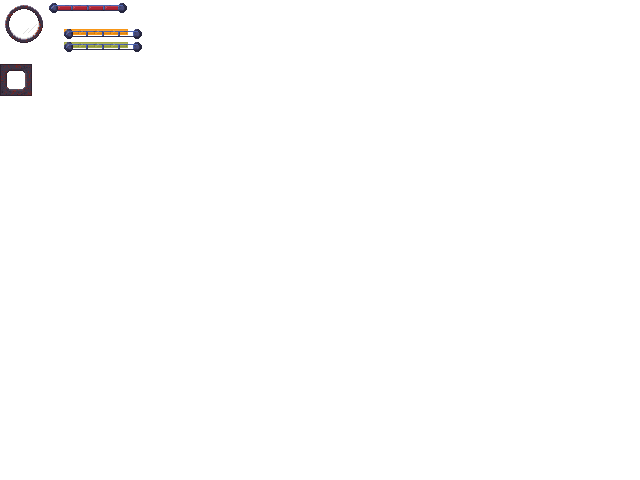
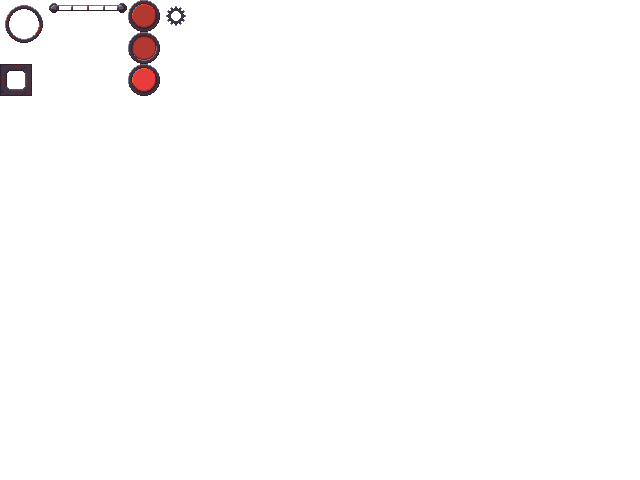
wip: hud

Changed region(s): [[0.0625, 0.0, 0.3125, 0.2188]]

diff --git a/js/hud.js b/js/hud.js
@@ -1,7 +1,10 @@
 export { Hud };
 
 import { Assets } from './base/assets.js';
+import { Rect } from './base/rect.js';
 import { Sketch } from './base/sketch.js';
+import { Text } from './base/text.js';
+import { UxButton } from './base/uxButton.js';
 import { UxPanel } from './base/uxPanel.js';
 import { UxView } from './base/uxView.js';
 import { XForm } from './base/xform.js';
@@ -23,32 +26,74 @@ class Hud extends UxView {
                         new UxPanel({
                             sketch: Assets.get('hud.portrait', true, {lockRatio: true}),
                             xform: new XForm({right: .6,}),
+                            //dbg: { xform: true },
                         }),
                         new UxPanel({
                             sketch: Sketch.zero,
-                            xform: new XForm({left: .4, top: .2, bottom: .2}),
+                            xform: new XForm({left: .3, top: .2, bottom: .2}),
+                            //dbg: { xform: true },
                             children: [
+
                                 new UxPanel({
-                                    sketch: Assets.get('hud.healthbar', true, {lockRatio: true}),
-                                    xform: new XForm({bottom: .67, stretch: false, width: 160, height: 32}),
+                                    sketch: Sketch.zero,
+                                    xform: new XForm({bottom: .67}),
+                                    children: [
+                                        new UxPanel({
+                                            tag: 'bar.health',
+                                            //sketch: new Rect({color: "rgba(179,56,49,1)"}),
+                                            sketch: new Rect({color: "red"}),
+                                            xform: new XForm({left: .225, right: .225, top: .3, bottom: .3, }),
+                                        }),
+                                        new UxPanel({
+                                            sketch: Assets.get('hud.bar', true, {lockRatio: true}),
+                                        }),
+                                    ],
                                 }),
+
                                 new UxPanel({
-                                    sketch: Assets.get('hud.healthbar', true, {lockRatio: true}),
-                                    xform: new XForm({top: .33, bottom: .33, stretch: false, width: 160, height: 32}),
+                                    sketch: Sketch.zero,
+                                    xform: new XForm({bottom: .33, top: .33}),
+                                    children: [
+                                        new UxPanel({
+                                            tag: 'bar.power',
+                                            sketch: new Rect({color: "rgba(77,101,180,1)"}),
+                                            xform: new XForm({left: .225, right: .225, top: .3, bottom: .3, }),
+                                        }),
+                                        new UxPanel({
+                                            sketch: Assets.get('hud.bar', true, {lockRatio: true}),
+                                        }),
+                                    ],
                                 }),
+
                                 new UxPanel({
-                                    sketch: Assets.get('hud.healthbar', true, {lockRatio: true}),
-                                    xform: new XForm({top: .67, stretch: false, width: 160, height: 32}),
+                                    sketch: Sketch.zero,
+                                    xform: new XForm({top: .67}),
+                                    children: [
+                                        new UxPanel({
+                                            tag: 'bar.fuel',
+                                            sketch: new Rect({color: "rgba(247,150,23,1)"}),
+                                            xform: new XForm({left: .225, right: .225, top: .3, bottom: .3, }),
+                                        }),
+                                        new UxPanel({
+                                            sketch: Assets.get('hud.bar', true, {lockRatio: true}),
+                                        }),
+                                    ],
                                 }),
+
                             ],
                         }),
                     ],
                 }),
-                /*
-                new UxPanel({
-                    xform: new XForm({left: .125, right: .7, top: .075, bottom: .875}),
+                
+                new UxButton({
+                    text: new Text({text: '    options    '}),
+                    pressed: Assets.get('hud.button.pressed', true),
+                    unpressed: Assets.get('hud.button.unpressed', true),
+                    highlight: Assets.get('hud.button.highlight', true),
+                    xform: new XForm({left: .9, bottom: .85, top: .025, right: .025, lockRatio: true, width: 10, height: 10}),
+                    //dbg: { xform: true },
                 }),
-                */
+
             ],
         }));
     }

diff --git a/js/assets.js b/js/assets.js
@@ -508,6 +508,9 @@ let miniaAssets = [
 
     StretchSprite.xspec({tag: 'hud.border', border: 27, img: new SheetRef({src: 'img/hud.png', width: 32, height: 32, x: 0, y: 16*4, scalex: 3, scaley: 3})}),
     Sprite.xspec({tag: 'hud.portrait', img: new SheetRef({src: 'img/hud.png', width: 48, height: 48, x: 0, y: 0})}),
-    Sprite.xspec({tag: 'hud.healthbar', img: new SheetRef({src: 'img/hud.png', width: 80, height: 16, x: 16*3, y: 0})}),
+    Sprite.xspec({tag: 'hud.bar', img: new SheetRef({src: 'img/hud.png', width: 80, height: 16, x: 16*3, y: 0})}),
+    Sprite.xspec({tag: 'hud.button.unpressed', img: new SheetRef({src: 'img/hud.png', width: 32, height: 32, x: 16*8, y: 16*0})}),
+    Sprite.xspec({tag: 'hud.button.pressed', img: new SheetRef({src: 'img/hud.png', width: 32, height: 32, x: 16*8, y: 16*2})}),
+    Sprite.xspec({tag: 'hud.button.highlight', img: new SheetRef({src: 'img/hud.png', width: 32, height: 32, x: 16*8, y: 16*4})}),
 
 ];

diff --git a/js/base/uxButton.js b/js/base/uxButton.js
@@ -95,6 +95,7 @@ class UxButton extends UxView {
 
     // EVENT HANDLERS ------------------------------------------------------
     onMouseToggle(evt) {
+        console.log(`${this} onMouseToggle`);
         if (!this.active) return;
         let lastSketch = this.sketch;
         this.sketch = (this.mouseDown) ? this._pressed : this._unpressed;
@@ -124,7 +125,7 @@ class UxButton extends UxView {
         this.sketch.height = this.xform.height;
         this.sketch.render(ctx, this.xform.minx, this.xform.miny);
         // render highlight
-        if (this.mouseOver) {
+        if (this.mouseOver && !this.mouseDown) {
             this._highlight.width = this.xform.width;
             this._highlight.height = this.xform.height;
             this._highlight.render(ctx, this.xform.minx, this.xform.miny);
